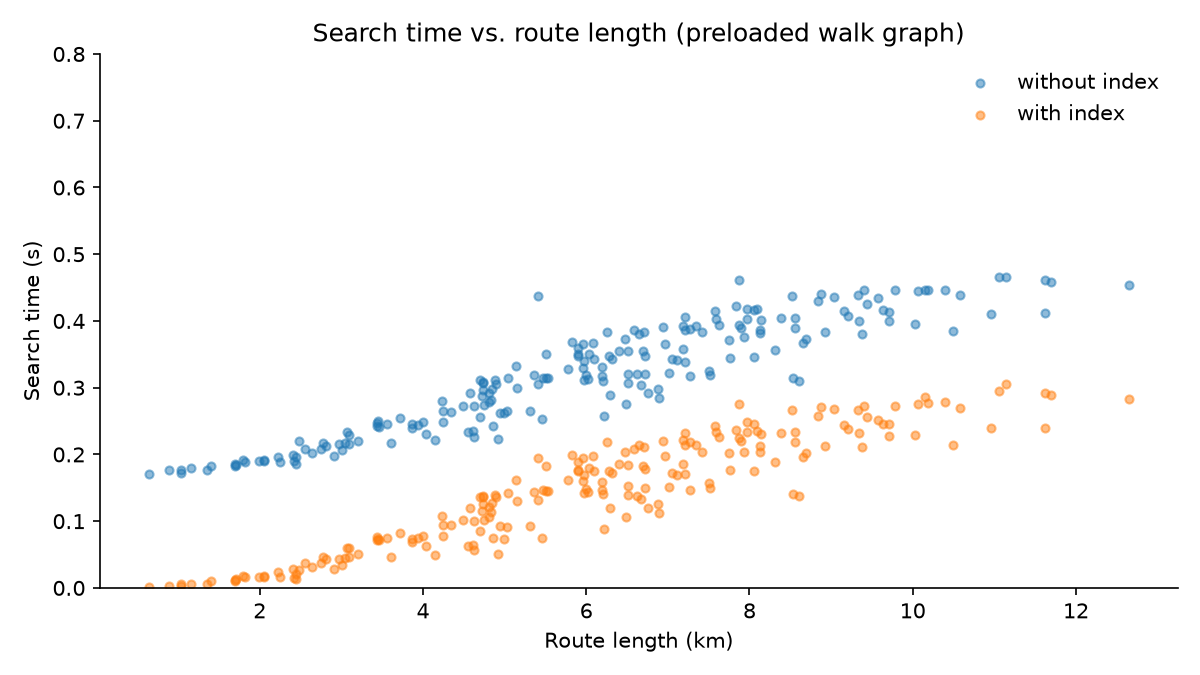
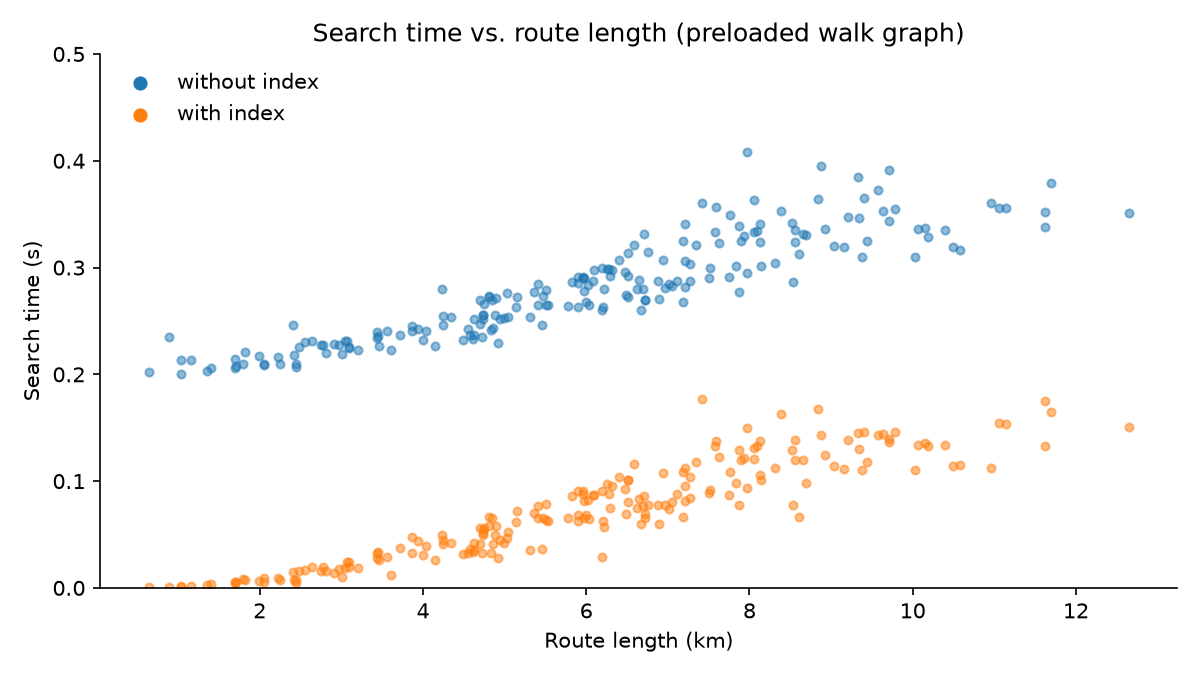
Use a single bidirectional search for routing

diff --git a/benchmarks/benchmark_scaling.py b/benchmarks/benchmark_scaling.py
@@ -33,19 +33,23 @@ for i in range(200):
 fig, ax = plt.subplots(figsize=(8, 4.5))
 ax.scatter(dists, old_t, alpha=0.5, s=15, label="without index")
 ax.scatter(dists, new_t, alpha=0.5, s=15, label="with index")
-ax.set_ylim(0, 0.8)
+ax.set_ylim(0, 0.5)
 ax.set_xlabel("Route length (km)")
 ax.set_ylabel("Search time (s)")
 ax.set_title("Search time vs. route length (preloaded walk graph)")
-ax.legend(frameon=False)
+
+leg = ax.legend(loc="upper left", frameon=False, markerscale=1.5)
+for handle in leg.legend_handles:
+    handle.set_alpha(1)
+    
 ax.spines[["top", "right"]].set_visible(False)
 fig.tight_layout()
 fig.savefig("images/time_vs_length.png", dpi=150)
 
 # points above the y-axis limit are not drawn, to avoid outliers
-cut = sum(t > 0.8 for t in old_t + new_t)
+cut = sum(t > 0.5 for t in old_t + new_t)
 if cut:
-    print(f"{cut} point(s) above 0.8 s not shown")
+    print(f"{cut} point(s) above 0.5 s not shown")
 
 mean_old = sum(old_t) / len(old_t)
 mean_new = sum(new_t) / len(new_t)

diff --git a/routing.py b/routing.py
@@ -41,8 +41,7 @@ def find_route(G, start, end, index=None):
         start_node = nearest_node(index, start)
         end_node = nearest_node(index, end)
 
-    route = nx.shortest_path(G, start_node, end_node, weight="length")
-    distance = nx.shortest_path_length(G, start_node, end_node, weight="length")
+    distance, route = nx.bidirectional_dijkstra(G, start_node, end_node, weight="length")
 
     return route, distance
 

diff --git a/README.md b/README.md
@@ -4,8 +4,7 @@ Shortest walking and cycling routes on Berlin's real street network, computed on
 
 **Live:** https://berlin-route-finder.streamlit.app
 
-The first version downloaded streets for every search and took over a minute per query. The current version loads the walk and bike graphs and their nearest-intersection indexes once at startup (about 8 seconds in total on a MacBook Air M3), then answers a search in a few milliseconds for short routes and up to about 0.3 seconds for the longest ones in the covered area.
-
+The first version downloaded streets for every search and took over a minute per query. The current version loads the walk and bike graphs and their nearest-intersection indexes once at startup (about 9 seconds in total on a 2021 MacBook Pro with an M1 Pro chip), then answers a search in a few milliseconds for short routes and up to about 0.2 seconds for the longest ones in the covered area.
 
 ![Screenshot](images/dashboard.png)
 
@@ -17,33 +16,34 @@ The first version downloaded streets for every search and took over a minute per
 | Caching | Cached geocoding results and graphs in memory | Searching the same route again is faster |
 | Preloaded graphs | Built the walk and bike networks (5 km around Brandenburger Tor) once and loaded them at startup | Searches no longer download street data |
 | Compression | Stored the graphs as `.graphml.gz` | 89 MB → 9.7 MB (walk), 40 MB → 4.7 MB (bike), small enough to ship with the repo |
-| Prebuilt index | Built the nearest-intersection lookup once at startup instead of on every search | OSMnx prepared its lookup from scratch on each call, a fixed cost of about 0.18 s per search |
+| Prebuilt index | Built the nearest-intersection lookup once at startup instead of on every search | OSMnx prepared its lookup from scratch on each call, a fixed cost of about 0.2 s per search |
+| Single search | Took the route and its length from one bidirectional search instead of two | The length came from a second, one-directional Dijkstra search; now both come from the search that finds the route |
 
 ## Results
 
-| Route | Distance | Live download | Without index | With index | Speedup vs. live download |
-|---|---|---|---|---|---|
-| Brandenburger Tor → Potsdamer Platz | 865 m | ~71 s | 0.185 s | 0.004 s | >10,000× |
-| Hauptbahnhof → Alexanderplatz | 3.6 km | ~66 s | 0.258 s | 0.078 s | ~850× |
-| Zoologischer Garten → East Side Gallery | 8.5 km | ~114 s | 0.452 s | 0.270 s | ~420× |
+| Route | Distance | Live download (first version) | Now | Speedup |
+|---|---|---|---|---|
+| Brandenburger Tor → Potsdamer Platz | 865 m | ~71 s | 0.002 s | >10,000× |
+| Hauptbahnhof → Alexanderplatz | 3.6 km | ~66 s | 0.030 s | ~2,200× |
+| Zoologischer Garten → East Side Gallery | 8.5 km | ~114 s | 0.144 s | ~800× |
 
-Walking routes, measured locally on a MacBook Air M3 (16 GB RAM), Python 3.14, OSMnx 2.1. Timings cover the nearest-intersection lookup and the path search, not the geocoding of place names.
+Walking routes, measured locally on a MacBook Pro (M1 Pro, 16 GB RAM), Python 3.13, OSMnx 2.1.1. Timings cover the nearest-intersection lookup and the path search, not the geocoding of place names.
 
-Without index and with index: time per search after startup, best of 5 runs (`benchmarks/benchmark.py`). Startup happens once: the walk graph (90,663 intersections) loads in 5.4 s and its index builds in 0.06 s. The bike graph (37,980 intersections) loads in 2.6 s and its index builds in 0.02 s.
+Now: time per search after startup, best of 5 runs (`benchmarks/benchmark.py`). Startup happens once: the walk graph (90,663 intersections) loads in 5.8 s and its index builds in 0.07 s. The bike graph (37,980 intersections) loads in 3.0 s and its index builds in 0.03 s.
 
-Live download: total time per search (download + routing), measured once per route (`benchmarks/benchmark_live.py`); timings depend on the load of the public Overpass server.
+Live download: total time per search (download + routing), measured once per route on a MacBook Air M3 (`benchmarks/benchmark_live.py`). These times depend mainly on the load of the public Overpass server, not on the laptop.
 
 All versions find the same routes. The download was almost all of the original cost: routing itself took under 0.4 s there too.
 
 ![Search time vs. route length](images/time_vs_length.png)
 
-The same 200 random routes, each timed best of 3, with and without the index (`benchmarks/benchmark_scaling.py`). Without it, every search pays a fixed cost of about 0.18 s, because OSMnx prepares its lookup over all 90,663 intersections from scratch on each call. Building it once removes that cost, so short routes now take a few milliseconds. What remains is the path search itself, which grows with route length, up to about 0.3 s for 12 km. Across the 200 routes, the mean search time fell from 0.32 s to 0.15 s.
+The same 200 random routes, each timed best of 3, with and without the index (`benchmarks/benchmark_scaling.py`). Without it, every search pays a fixed cost of about 0.2 s, because OSMnx prepares its lookup over all 90,663 intersections from scratch on each call. Building it once removes that cost, so short routes now take a few milliseconds. What remains is the path search itself, which grows with route length, up to about 0.17 s for 12 km. Across the 200 routes, the mean search time is 0.28 s without the index and 0.07 s with it.
 
 ## How it works
 
 - **Graph:** OSMnx turns OpenStreetMap data into a directed graph. The walk network has 90,663 intersections, the bike network 37,980.
 - **Geocoding:** place names are resolved with Nominatim and checked against the covered area.
-- **Routing:** start and end snap to the nearest intersection using a BallTree built once at startup, then NetworkX finds the shortest path weighted by street length.
+- **Routing:** start and end snap to the nearest intersection using a BallTree built once at startup, then a bidirectional Dijkstra search in NetworkX finds the shortest path and its length in one pass, weighted by street length.
 - **App:** Streamlit, with the graphs and indexes loaded at startup and the route kept in session state so it survives Streamlit's reruns.
 
 ## Limitations
@@ -55,7 +55,7 @@ The same 200 random routes, each timed best of 3, with and without the index (`b
 
 ## What's next
 
-- Speed up the path search itself, which is now the main cost: it currently runs twice per search (route and length), and A* or bidirectional search could reduce it further.
+- Try A* search, which uses the straight-line distance to the destination as a guide and could explore even fewer intersections.
 - Smarter snapping that considers several nearby intersections, not just the closest one.
 - A multi-stop tour that finds the best order to visit several places.
 
